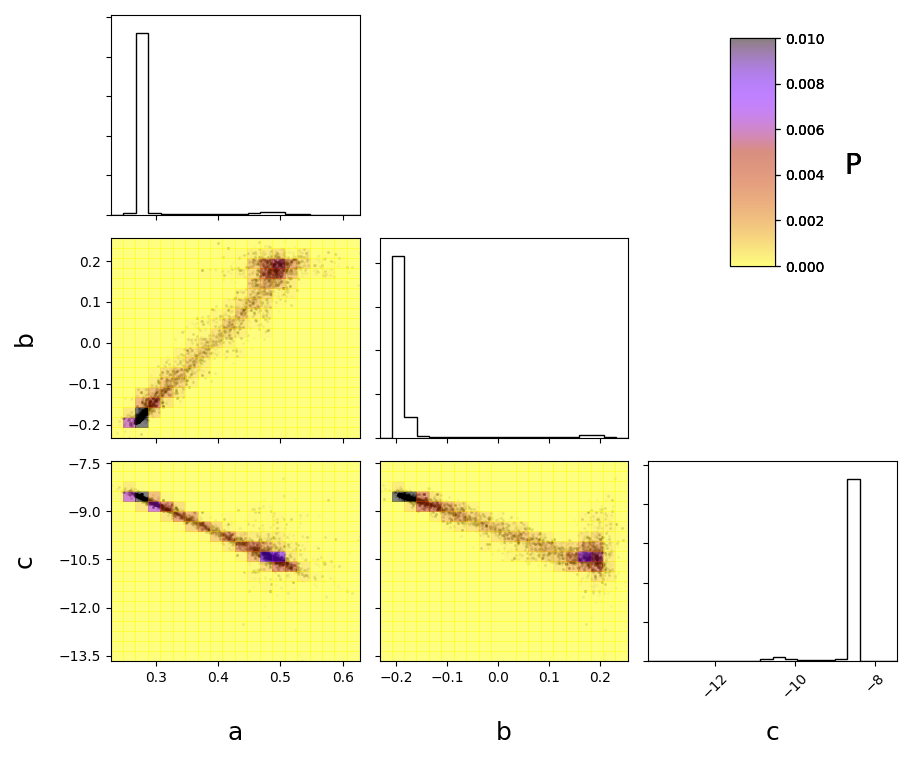
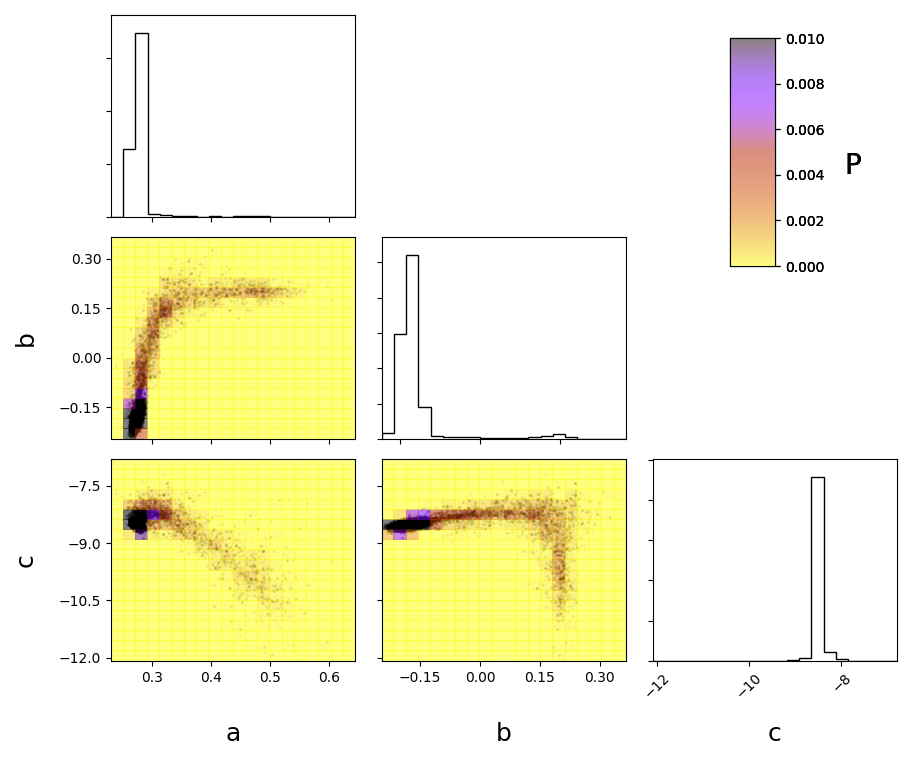
refactor for multidimensional y

diff --git a/examples/multidimensional_MCMC_example.py b/examples/multidimensional_MCMC_example.py
@@ -1,0 +1,41 @@
+from curepy.container.measurement_function import MeasurementFunction
+from curepy.container.measurement import Measurement
+from curepy.container.ancillary_parameter import AncillaryParameter
+from curepy.container.prior import Prior
+from curepy.retrieval_methods.MCMC import MCMC
+from curepy.container.retrieval_input import RetrievalInput
+from curepy.utilities.plotting import corner
+
+import numpy as np
+import matplotlib.pyplot as plt
+
+np.random.seed(1503)
+
+def quadratic(a, b, c, x, d):
+    return a*x**2 + b*x + c + d
+
+x = np.ones((5,5)) * np.linspace(-5, 5, 5)
+d = 5
+data = 0.27*x**2 -0.19*x -8.5 + d
+noise = np.random.normal(0, 1, data.shape)
+y = data + noise
+
+meas_func = MeasurementFunction(quadratic, [0.5, 0.2, -10])
+meas = Measurement(y, noise, 'rand')
+ancill = AncillaryParameter([x, d], [0.01*np.ones_like(x), 1], [np.eye(len(x)), np.array([1,])],b_iter = 1)
+
+inputs = RetrievalInput(meas_func, meas, ancill)
+
+ret = MCMC(100, 1000, 100)
+
+results = ret.run_retrieval(inputs, return_samples=True)
+
+print(results.values)
+print(results.uncertainties)
+plt.plot(x, quadratic(*results.values, x, d))
+plt.scatter(x, y, alpha = 0.5, c = 'orange')
+plt.savefig("C:/Users/jr20/code/curepy/examples/test.png")
+
+corner = corner(results.samples,
+                labels = ['a', 'b', 'c'])
+corner.savefig("C:/Users/jr20/code/curepy/examples/test_corner.png")

diff --git a/curepy/retrieval_methods/MCMC.py b/curepy/retrieval_methods/MCMC.py
@@ -100,9 +100,9 @@ class MCMC(BaseRetrieval):
     
     def generate_theta_i(self, theta_0, factor_std=0.1):
         theta_i = theta_0 * np.random.normal(1.0, factor_std, theta_0.shape)
-        if np.all(self.retrieval_input.prior_obj.prior_params["minimum"] < theta_i) and np.all(
-            self.retrieval_input.prior_obj.prior_params["maximum"] > theta_i#todo: check what to do for non uniform priors
-        ):
+        if all(np.isfinite(self.retrieval_input.prior_obj.lnprior(
+            theta_i,
+            )())):
             return theta_i
         else:
             return self.generate_theta_i(theta_0, factor_std=factor_std * 0.9)
@@ -126,7 +126,7 @@ class MCMC(BaseRetrieval):
                                u_x = unc_avg,
                                corr_x = corr if return_corr else None,
                                samples = samples if return_samples else None,
-                               b_samples = b_samples if return_b_samples else None,
+                               b_samples = b_samples if return_b_samples else None,#todo: if input multidimensional reshape samples?
                                )
 
         return outs

diff --git a/curepy/retrieval_methods/base.py b/curepy/retrieval_methods/base.py
@@ -40,8 +40,8 @@ class BaseRetrieval(ABC):
                     theta,
                     repeat_dims = []):
         
-        modelled_data = self.retrieval_input.measurement_function_obj.measurement_function_x(theta, self.retrieval_input.ancillary_obj.b)
-        diff = modelled_data - self.retrieval_input.measurement_obj.y#todo: flat?
+        modelled_data = self.retrieval_input.measurement_function_obj.measurement_function_x(theta, self.retrieval_input.ancillary_obj.b).flatten()
+        diff = modelled_data - self.retrieval_input.measurement_obj.y_flat
         if np.isfinite(np.sum(diff)):
             if self.retrieval_input.measurement_obj.invcov is None:
                 return np.sum((diff) ** 2 / self.retrieval_input.measurement_obj.u_y**2)

diff --git a/curepy/container/measurement.py b/curepy/container/measurement.py
@@ -22,12 +22,12 @@ class Measurement:
         self.u_y = u_y
         self.y_flat, self.u_y_flat, self.y_shape = self._flatten_inputs(self.y, self.u_y)
         
-        self.corr_y = util.format_correlation(self.y, corr_y)
+        self.corr_y = util.format_correlation(self.y_flat, corr_y)
         
-        self._check_shapes(self.y, self.u_y, self.corr_y)
+        self._check_shapes(self.y_flat, self.u_y_flat, self.corr_y)
         
         if corr_y is not None:
-            self.invcov = self.calculate_inv_cov(self.u_y, self.corr_y)
+            self.invcov = self.calculate_inv_cov(self.u_y_flat, self.corr_y)
         else:
             self.invcov = None
     
